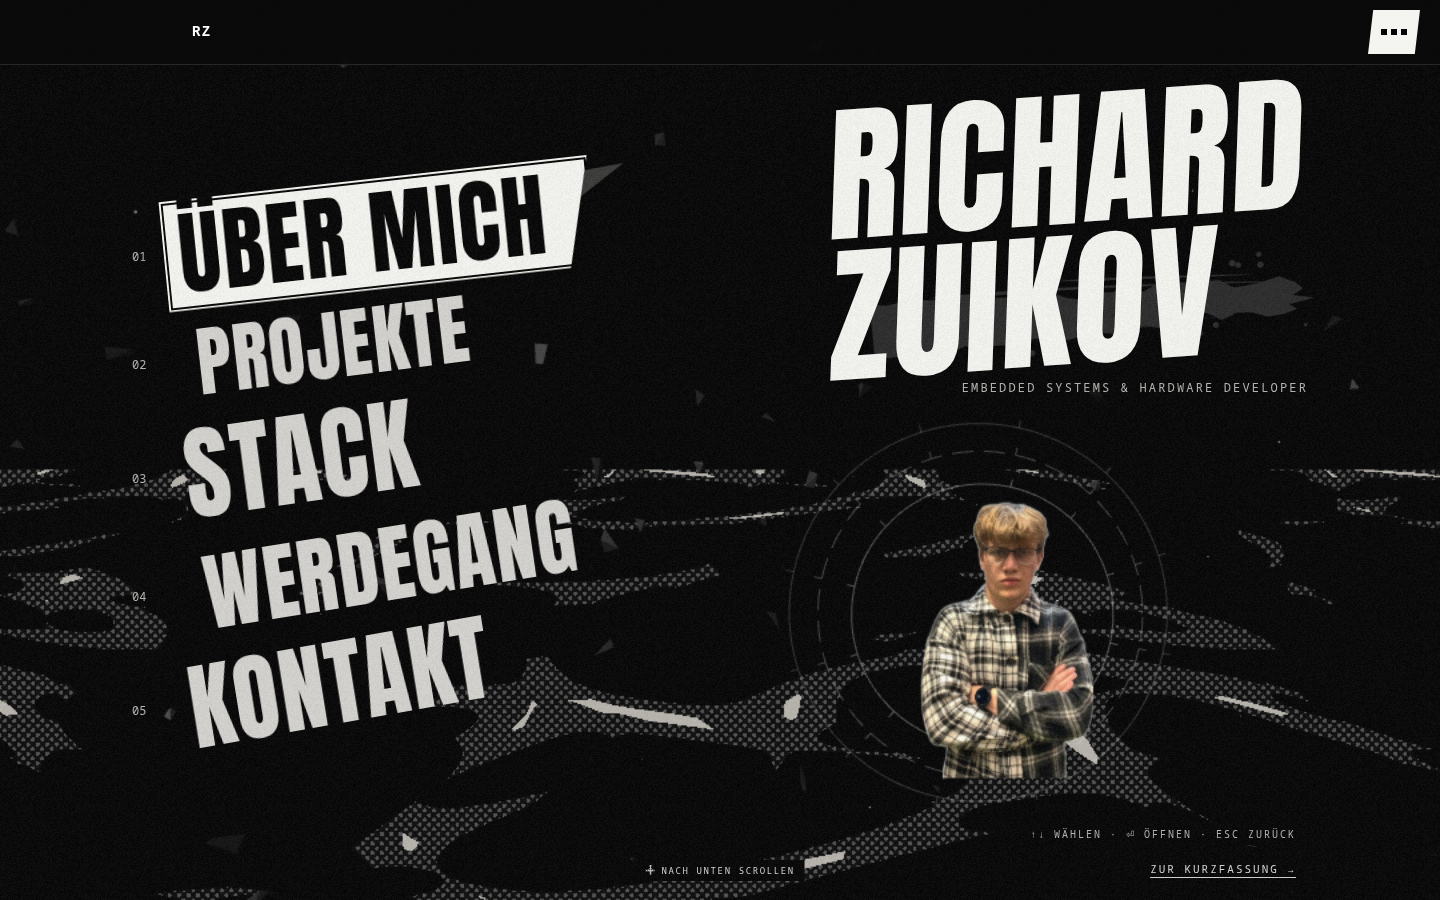
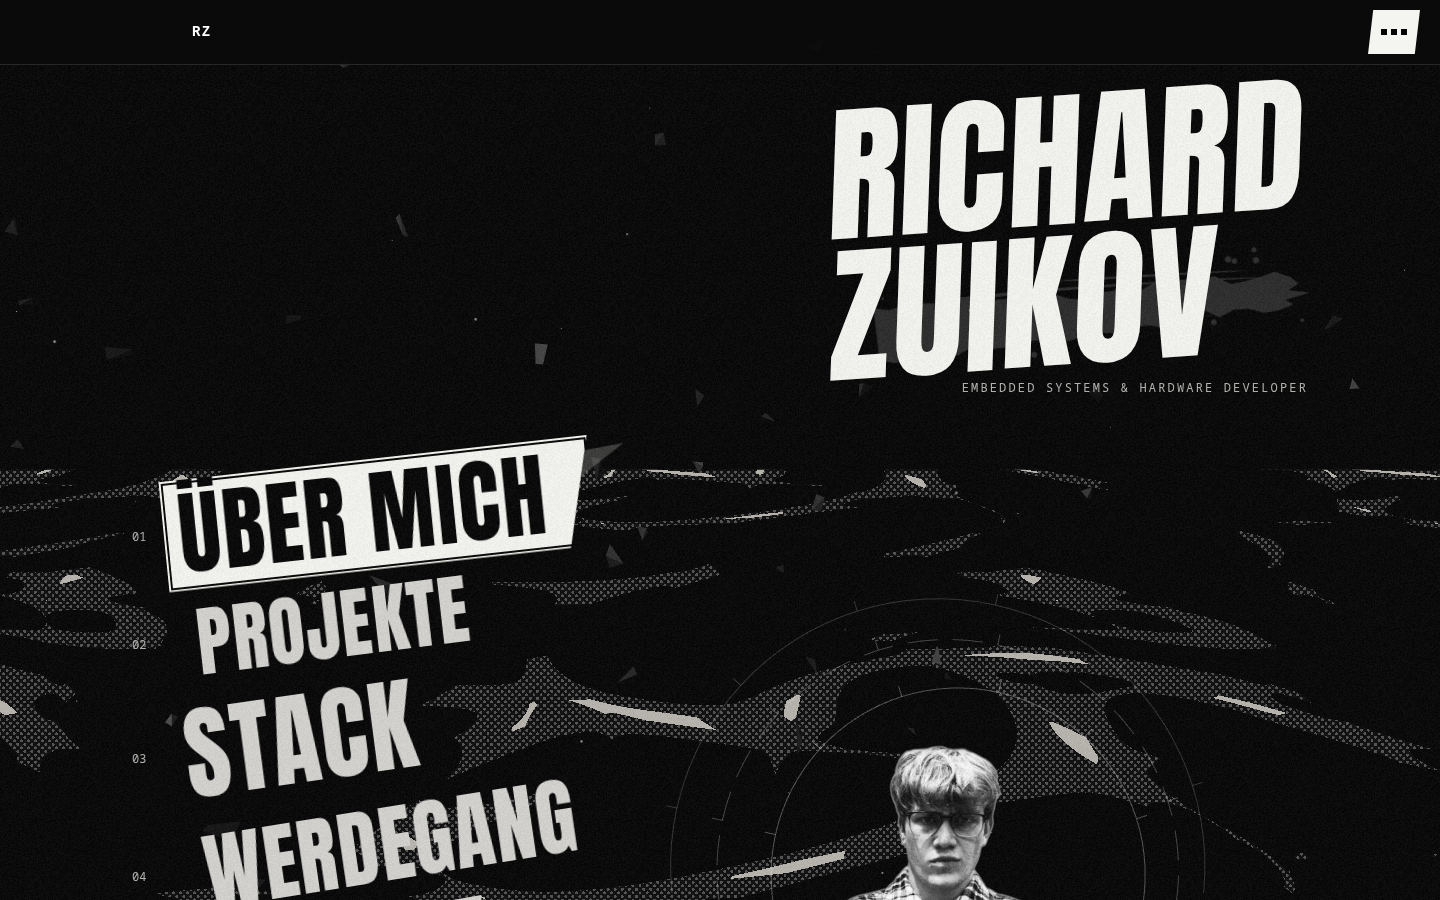
feat(portrait): hero <picture> swaps stage / head by media query; no attribution
The hero is one <picture> per layer (B/W, colour) with a (max-width: 767px)
source for `head`, so a resize swaps the photo without JS. With WebGL the
picture stays hidden in layout and the scene reloads its textures from the
currentSrc the media query picked (the DOM <img> itself is not uploaded: its
natural size is density-corrected by the w-descriptor srcset and overflowed
the texture). The ink-water stage background stays.

Repo rule: no attribution trailers or "Generated with" lines in commits, PRs
or comments (.claude/settings.json attribution off, CLAUDE.md, AGENTS.md).

diff --git a/src/components/stage/scene.js b/src/components/stage/scene.js
@@ -285,14 +285,54 @@ export function createStage({ canvas, anchors, projects, portrait: portraitUrls,
   // Colour of the two real-photo figures: 0 = B/W, 1 = colour (see portraitColour below).
   const colour = { hero: { t: 0, hover: false, tap: false }, profile: { t: 0, hover: false, tap: false } };
   let heroMaps = null;
-  loadPortrait(portraitUrls).then(({ maps, aspect }) => {
-    if (state.disposed) return;
+  // Hero figure from { bw, color }: <img> elements (the DOM <picture> picks `stage` / `head` by media
+  // query and swaps on resize; every swap reloads the textures) or plain URLs (legacy silhouette).
+  const setHero = (maps, aspect) => {
+    if (state.disposed) {
+      Object.values(maps).forEach((map) => map.dispose());
+      return;
+    }
+    Object.values(heroMaps ?? {}).forEach((map) => map.dispose());
     heroMaps = maps;
-    const figure = new THREE.Mesh(new THREE.PlaneGeometry(3.1 * aspect, 3.1), createPortrait(maps));
-    heroFigure = figure;
-    hero.add(figure);
-    heroLayers.push({ object: figure, depth: 0.42, base: new THREE.Vector3(0, -0.1, 0) });
-  }).catch(() => {});
+    const geometry = new THREE.PlaneGeometry(3.1 * aspect, 3.1);
+    if (heroFigure) {
+      heroFigure.geometry.dispose();
+      heroFigure.geometry = geometry;
+      heroFigure.material.uniforms.uBw.value = maps.bw;
+      heroFigure.material.uniforms.uColor.value = maps.color;
+    } else {
+      heroFigure = new THREE.Mesh(geometry, createPortrait(maps));
+      hero.add(heroFigure);
+      heroLayers.push({ object: heroFigure, depth: 0.42, base: new THREE.Vector3(0, -0.1, 0) });
+    }
+    state.lastInput = performance.now();
+  };
+  const heroImgs = portraitUrls.bw instanceof HTMLImageElement ? portraitUrls : null;
+  let heroKey = '';
+  // The DOM <img> itself is not uploaded: with a w-descriptor srcset its natural size is density-
+  // corrected (e.g. 489 px for a 562 px file), which breaks the texture size. Its currentSrc (the file
+  // the media query picked, already in the HTTP cache) is decoded fresh at its true size instead.
+  const syncHero = () => {
+    const { bw, color } = heroImgs;
+    if (!bw.complete || !color.complete || !bw.currentSrc || !color.currentSrc) return;
+    const key = `${bw.currentSrc}|${color.currentSrc}`;
+    if (key === heroKey) return;
+    heroKey = key;
+    loadPortrait({ bw: bw.currentSrc, color: color.currentSrc }).then(({ maps, aspect }) => {
+      if (key !== heroKey) {
+        Object.values(maps).forEach((map) => map.dispose());
+        return;
+      }
+      setHero(maps, aspect);
+    }).catch(() => {});
+  };
+  if (heroImgs) {
+    heroImgs.bw.addEventListener('load', syncHero);
+    heroImgs.color.addEventListener('load', syncHero);
+    syncHero();
+  } else {
+    loadPortrait(portraitUrls).then(({ maps, aspect }) => setHero(maps, aspect)).catch(() => {});
+  }
 
   // Side-profile figure of the About section.
   const profile = { ghosts: [], mesh: null, maps: null, geometry: null, aspect: 1, box: { w: 1, h: 1 }, to: new THREE.Vector3(), top: 0, settle: 1, height: 1 };
@@ -824,6 +864,8 @@ export function createStage({ canvas, anchors, projects, portrait: portraitUrls,
       observer.disconnect();
       window.removeEventListener('pointermove', onPointerMove);
       window.removeEventListener('pointerdown', onPointerDown);
+      heroImgs?.bw.removeEventListener('load', syncHero);
+      heroImgs?.color.removeEventListener('load', syncHero);
       document.removeEventListener('visibilitychange', onVisibility);
       bonfire.dispose();
       Object.values(profile.maps ?? {}).forEach((map) => map.dispose());

diff --git a/src/pages/Stage.jsx b/src/pages/Stage.jsx
@@ -35,19 +35,19 @@ const DESCENT_SLOTS = ['pcb', 'chip', 'monitor', 'rack', 'dome'];
 const LAND_PIN_MS = 1500;
 const LAND_RELEASE_EVENTS = ['wheel', 'touchstart', 'keydown', 'pointerdown'];
 
-// Below this width the hero uses the `head` cut-out (same breakpoint as the scene's SMALL_SCREEN).
-const MOBILE_HERO = 768;
+// Hero art direction (DESIGN.md §18 "Portraits"): `head` below 768 px, `stage` above, chosen by the
+// <picture> media query so a resize swaps it without JS. The WebGL scene uploads whatever these
+// <img> elements loaded.
+const HERO_ART = cutouts.head ? [{ media: '(max-width: 767px)', set: cutouts.head }] : [];
 
-// Scene textures: the cut-out size whose height covers the hero at this DPR; legacy file otherwise.
+// Profile texture for the scene: the cut-out size whose height covers the viewport at this DPR.
 const sceneCutout = (set, fallback) => {
   if (!set) return { bw: fallback, color: fallback };
   const px = window.innerHeight * Math.min(window.devicePixelRatio || 1, 1.5);
   return { bw: cutoutUrl(set, 'bw', px), color: cutoutUrl(set, 'color', px) };
 };
 
-const HeroCutout = ({ set, className, fallback }) => (set
-  ? <CutoutPortrait set={set} className={className} sizes="(min-width: 768px) 34vw, 70vw" />
-  : <img src={fallback} alt="" className={`${className} h-full w-full object-contain grayscale`} />);
+const heroSet = cutouts.stage ?? cutouts.head;
 
 const delay = (ms) => new Promise((resolve) => { setTimeout(resolve, ms); });
 
@@ -80,6 +80,12 @@ export default function Stage() {
   const canvasRef = useRef(null);
   const stageRef = useRef(null);
   const portraitRef = useRef(null);
+  // The hero's two <img> elements ({ bw, color }), filled by CutoutPortrait's refs.
+  const heroImages = useRef({});
+  const heroImgRefs = useRef({
+    bw: (node) => { heroImages.current.bw = node; },
+    color: (node) => { heroImages.current.color = node; },
+  }).current;
   const aboutRef = useRef(null);
   const aboutPortraitRef = useRef(null);
   const fireRef = useRef(null);
@@ -102,7 +108,7 @@ export default function Stage() {
       const stage = createStage({
         canvas: canvasRef.current,
         projects: featuredProjects,
-        portrait: sceneCutout(window.innerWidth < MOBILE_HERO ? cutouts.head : cutouts.stage, portraits.stage.large),
+        portrait: heroSet ? heroImages.current : sceneCutout(null, portraits.stage.large),
         profile: sceneCutout(cutouts.about, portraits.about.large),
         onDiveEnd: () => setPhase('done'),
         anchors: () => ({
@@ -360,12 +366,11 @@ export default function Stage() {
           </nav>
         </div>
         <div ref={portraitRef} className="stage-portrait">
-          {!webgl && (
-            // Desktop: `stage`; phones: `head` (DESIGN.md §18 "Portraits"). CSS picks one, no JS.
-            <>
-              <HeroCutout set={cutouts.stage} className="hero-cutout is-desktop" fallback={portraits.stage.large} />
-              <HeroCutout set={cutouts.head} className="hero-cutout is-mobile" fallback={portraits.stage.large} />
-            </>
+          {heroSet ? (
+            // Always rendered: visible without WebGL; with WebGL hidden (still loading) as the scene's source.
+            <CutoutPortrait set={heroSet} art={HERO_ART} imgRefs={heroImgRefs} className={`hero-cutout ${webgl ? 'is-scene-source' : ''}`} sizes="(min-width: 768px) 34vw, 70vw" />
+          ) : (
+            !webgl && <img src={portraits.stage.large} alt="" className="h-full w-full object-contain grayscale" />
           )}
         </div>
       </section>

diff --git a/src/components/atlus/CutoutPortrait.jsx b/src/components/atlus/CutoutPortrait.jsx
@@ -3,12 +3,26 @@ import React, { useEffect, useRef, useState } from 'react';
 // Real-photo portrait (DESIGN.md §2 + §18 "Portraits"): the black-and-white cut-out at rest, the
 // colour cut-out cross-faded on top on hover / focus (300 ms ease-out, CSS), instantly under reduced
 // motion. Touch (no hover): colour on tap or while the portrait sits in the middle band of the
-// viewport. `colour` forces it from outside (e.g. the stage → about turn).
+// viewport. `colour` forces it from outside.
+// `art`: [{ media, set }] art direction — a <source media> per entry ahead of the default `set`, so the
+// browser swaps the photo on resize with no JS (the hero: `head` below 768 px, `stage` above).
+// `imgRefs`: { bw, color } refs to the two <img> elements (the WebGL stage uploads what they loaded).
 const srcSet = (set, layer, format) => set.sizes.map(({ w, h }) => `${set[layer][h][format]} ${w}w`).join(', ');
 
 const TOUCH = '(hover: none)';
 
-export default function CutoutPortrait({ set, alt = '', sizes, colour = false, focusable = false, className = '', ...rest }) {
+// <source>s of one layer: art-directed AVIF + WebP first, then the default AVIF.
+const sources = (art, set, layer, sizes) => [
+  ...art.flatMap(({ media, set: artSet }) => {
+    const { w, h } = artSet.sizes[0];
+    return ['avif', 'webp'].map((format) => (
+      <source key={`${media}-${format}`} media={media} type={`image/${format}`} srcSet={srcSet(artSet, layer, format)} sizes={sizes} width={w} height={h} />
+    ));
+  }),
+  <source key="avif" type="image/avif" srcSet={srcSet(set, layer, 'avif')} sizes={sizes} />,
+];
+
+export default function CutoutPortrait({ set, art = [], imgRefs, alt = '', sizes, colour = false, focusable = false, className = '', ...rest }) {
   const ref = useRef(null);
   const [tapped, setTapped] = useState(false);
   const [centred, setCentred] = useState(false);
@@ -53,12 +67,12 @@ export default function CutoutPortrait({ set, alt = '', sizes, colour = false, f
       {...rest}
     >
       <picture className="cutout-bw">
-        <source type="image/avif" srcSet={srcSet(set, 'bw', 'avif')} sizes={sizes} />
-        <img src={set.bw[small.h].webp} srcSet={srcSet(set, 'bw', 'webp')} sizes={sizes} width={small.w} height={small.h} alt={focusable ? '' : alt} decoding="async" />
+        {sources(art, set, 'bw', sizes)}
+        <img ref={imgRefs?.bw} src={set.bw[small.h].webp} srcSet={srcSet(set, 'bw', 'webp')} sizes={sizes} width={small.w} height={small.h} alt={focusable ? '' : alt} decoding="async" />
       </picture>
       <picture className="cutout-colour" aria-hidden="true">
-        <source type="image/avif" srcSet={srcSet(set, 'color', 'avif')} sizes={sizes} />
-        <img src={set.color[small.h].webp} srcSet={srcSet(set, 'color', 'webp')} sizes={sizes} width={small.w} height={small.h} alt="" decoding="async" fetchpriority="low" />
+        {sources(art, set, 'color', sizes)}
+        <img ref={imgRefs?.color} src={set.color[small.h].webp} srcSet={srcSet(set, 'color', 'webp')} sizes={sizes} width={small.w} height={small.h} alt="" decoding="async" fetchpriority="low" />
       </picture>
     </span>
   );

diff --git a/.github/tests/portraits.spec.js b/.github/tests/portraits.spec.js
@@ -39,8 +39,22 @@ test.describe('Real-photo portraits', () => {
     await page.goto('/');
     const hero = page.locator('.stage-portrait .hero-cutout:visible');
     await expect(hero).toHaveCount(1);
-    await expect(hero.locator('.cutout-bw img')).toHaveAttribute('src', isMobile ? /head-bw-/ : /stage-bw-/);
+    // <picture> art direction: the shown file is currentSrc (src stays the default `stage`).
+    await expect.poll(() => hero.locator('.cutout-bw img').evaluate((img) => img.currentSrc)).toMatch(isMobile ? /head-bw-/ : /stage-bw-/);
     await context.close();
+  });
+
+  test('hero <picture> swaps stage / head on resize without a reload', async ({ page, isMobile }) => {
+    test.skip(isMobile, 'one resize run is enough; it starts on the desktop viewport');
+    await page.goto('/');
+    const layer = (name) => page.locator(`.stage-portrait .hero-cutout .cutout-${name} img`).evaluate((img) => img.currentSrc);
+    await expect.poll(() => layer('bw')).toMatch(/stage-bw-/);
+    await page.setViewportSize({ width: 390, height: 844 });
+    await expect.poll(() => layer('bw')).toMatch(/head-bw-/);
+    await expect.poll(() => layer('colour')).toMatch(/head-color-/);
+    await page.setViewportSize({ width: 1440, height: 900 });
+    await expect.poll(() => layer('bw')).toMatch(/stage-bw-/);
+    await expect.poll(() => layer('colour')).toMatch(/stage-color-/);
   });
 
   test('pause menu preview uses the head cut-out', async ({ page, isMobile }) => {

diff --git a/src/css/style.scss b/src/css/style.scss
@@ -3937,19 +3937,17 @@ html.gm-open .menu-dots {
 }
 
 /* The cut-outs carry their own tones: no grayscale filter on top. */
-/* No-WebGL hero: `stage` from 768 px, `head` below. The hero anchors and the menu preview are
-   pointer-events: none, so the cut-out takes the pointer back for its hover. */
+/* The hero anchors and the menu preview are pointer-events: none, so the cut-out takes the pointer
+   back for its hover. The hero swaps `stage` / `head` through its <picture> media query (§18). */
 .stage-portrait .cutout,
 .about-portrait .cutout,
 .gm-preview .cutout {
   pointer-events: auto;
 }
 
-.hero-cutout.is-mobile { display: none; }
-
-@media (max-width: 767px) {
-  .hero-cutout.is-desktop { display: none; }
-  .hero-cutout.is-mobile { display: block; }
+/* With WebGL the scene draws the hero; the <picture> stays in layout and keeps loading as its source. */
+.hero-cutout.is-scene-source {
+  visibility: hidden;
 }
 
 /* §18: below 1024 px the menu preview drops to the name, portrait included. */

diff --git a/design/DESIGN.md b/design/DESIGN.md
@@ -444,5 +444,5 @@ Owner review of v6, 2026-11-10. Open work is in TASKS.md.
 - `npm run cutout`: EXIF strip → chroma key on g − max(r, b) with spill suppression (g ≤ max(r, b)) for the hair edge → alpha erode 1 px + feather 1 px → crop (the frame is edge-extended first, so a figure cut by the frame gets no rim along the cut) → plain Lanczos resize to 900 / 1400 / 1800 px height, at most 1.75× the crop (heights above that are skipped; no AI upscaling) → AVIF + WebP, metadata stripped, `cutout/<id>-<color|bw>-<w>x<h>.*`.
 - Colour: the despilled photo. B/W: luminance → CLAHE (25 % tiles, clip 2.5) → strong S-curve (sigmoidal contrast 5 at 50 %) → subtle film grain (σ ≈ 0.017). Both carry the same 1.5 px paper rim (`#f4f4f0`) behind the silhouette, so it reads on `#050505` and the cross-fade never moves an edge.
 - Current sources allow: `stage` and `about` at 900 + 1400 px, `head` and `night` at 900 px; 1800 px exceeds 1.75× for all four.
-- Render: DOM `CutoutPortrait` (B/W picture + colour picture cross-faded in CSS) on `/about`, in the pause menu and for the no-WebGL hero; in the WebGL stage the hero and profile planes blend the two textures by `uColour` (same 300 ms ease-out). Plain ink behind every portrait, no backdrop slab. HUD rings and the 1.2 % breathing stay.
+- Render: DOM `CutoutPortrait` (B/W picture + colour picture cross-faded in CSS) on `/about`, in the pause menu and for the no-WebGL hero; in the WebGL stage the hero and profile planes blend the two textures by `uColour` (same 300 ms ease-out). The hero is one `<picture>` per layer with a `(max-width: 767px)` source for `head`, so a resize swaps `stage` / `head` without JS; with WebGL the picture stays hidden in layout and the scene reloads its textures from the `currentSrc` the media query picked. The ink-water stage background stays. Plain ink behind every portrait, no backdrop slab. HUD rings and the 1.2 % breathing stay.
 - Dev-only `/?portrait-lab`: live contrast / grain / rim sliders on the CLAHE luminance the pipeline leaves in `raw/lab/` (gitignored), next to the baked cut-out with its colour hover; prints the `CONTRAST=… GRAIN=… RIM=… npm run cutout` line. The poster / posterize path and its tone sliders are gone.

diff --git a/CLAUDE.md b/CLAUDE.md
@@ -9,5 +9,6 @@ This repository is governed by the unified AI agent rules defined in **[AGENTS.m
 4. **Never push to `main` and never merge PRs**. Always open a PR against `feat/atlus-menu`.
 5. **Follow the §10 visual review loop**: capture screenshots at `1440×900` and `390×844`, verify against `design/refs/`, iterate and fix.
 6. Verify quality gates before pushing: `npm run build`, `npm run test:security`, `npm run test:e2e`.
+7. No attribution trailers or 'Generated with' lines in commits, PRs or comments.
 
 Refer to [AGENTS.md](file:///home/richard/Projects/Ongoing/New/rz-ci/AGENTS.md) and [docs/ARCHITECTURE.md](file:///home/richard/Projects/Ongoing/New/rz-ci/docs/ARCHITECTURE.md) for complete details.

diff --git a/AGENTS.md b/AGENTS.md
@@ -41,6 +41,8 @@ Never work directly in the main repository checkout (`/home/richard/Projects/Ong
 - **Delivery**:
   - Always push your branch to `origin` and use `gh pr create` to open a Pull Request into `feat/atlus-menu` (or the specified target branch).
   - Stop after opening the PR.
+- **Attribution**:
+  - No attribution trailers or 'Generated with' lines in commits, PRs or comments.
 
 ---
 
